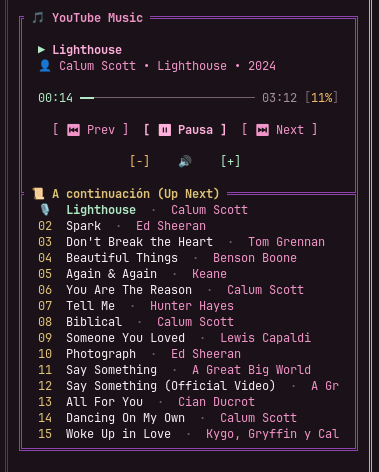
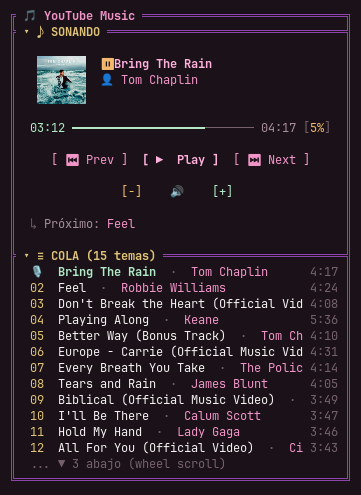
feat(player): fix volume persistence with main-world script and add repeat/shuffle controls

Changed region(s): [[0.0, 0.0, 1.0, 1.0], [0.6399, 0.1186, 0.7313, 0.1483]]

diff --git a/extension/content-script.js b/extension/content-script.js
@@ -31,6 +31,79 @@
     return document.querySelector("video");
   }
 
+  function extractRepeatMode() {
+    const playerBar = document.querySelector("ytmusic-player-bar");
+    const attrMode = playerBar?.getAttribute("repeat-mode") || playerBar?.getAttribute("repeat-mode_");
+    if (attrMode === "ONE" || attrMode === "ALL" || attrMode === "NONE") {
+      return attrMode;
+    }
+
+    const repeatBtn = document.querySelector(
+      ".repeat.ytmusic-player-bar, #right-controls .repeat, button[aria-label*='Repetir' i], button[aria-label*='Repeat' i]"
+    );
+    if (repeatBtn) {
+      const title = (repeatBtn.getAttribute("title") || repeatBtn.getAttribute("aria-label") || "").toLowerCase();
+      if (title.includes("uno") || title.includes("one") || title.includes("canción") || title.includes("track")) {
+        return "ONE";
+      }
+      if (title.includes("todo") || title.includes("all") || title.includes("lista") || title.includes("playlist")) {
+        return "ALL";
+      }
+      const pressed = repeatBtn.getAttribute("aria-pressed");
+      if (pressed === "true") return "ALL";
+    }
+
+    return "NONE";
+  }
+
+  function extractShuffleState() {
+    const playerBar = document.querySelector("ytmusic-player-bar");
+    if (playerBar && (playerBar.hasAttribute("shuffle-on") || playerBar.getAttribute("shuffle-on") !== null)) {
+      return true;
+    }
+
+    const shuffleBtn = document.querySelector(
+      ".shuffle.ytmusic-player-bar, #right-controls .shuffle, button[aria-label*='Aleatorio' i], button[aria-label*='Shuffle' i]"
+    );
+    if (shuffleBtn) {
+      const pressed = shuffleBtn.getAttribute("aria-pressed");
+      if (pressed === "true") return true;
+      if (shuffleBtn.classList.contains("active")) return true;
+    }
+
+    return false;
+  }
+
+  function sendToMainWorld(action, payload) {
+    try {
+      window.postMessage({ source: "PI_YT_CONTENT", action, payload }, "*");
+    } catch (_) {}
+  }
+
+  function applyVolume(volPercent) {
+    if (typeof volPercent !== "number" || isNaN(volPercent)) return;
+    const clamped = Math.max(0, Math.min(100, Math.round(volPercent)));
+    const volFraction = clamped / 100;
+
+    // 1. Elemento <video> nativo de HTML5
+    const video = getVideoElement();
+    if (video) {
+      video.volume = volFraction;
+    }
+
+    // 2. Manipular slider nativo en el DOM de YouTube Music (tp-yt-paper-slider)
+    const slider = document.querySelector("#volume-slider, ytmusic-player-bar #volume-slider");
+    if (slider) {
+      // @ts-ignore
+      slider.value = clamped;
+      slider.dispatchEvent(new Event("change", { bubbles: true }));
+      slider.dispatchEvent(new Event("input", { bubbles: true }));
+    }
+
+    // 3. Despachar a main-world.js para llamar a updateVolume() y movie_player.setVolume() sin restricciones de CSP
+    sendToMainWorld("SET_VOLUME", { value: clamped });
+  }
+
   function extractMetadata() {
     const video = getVideoElement();
     if (!video) {
@@ -68,13 +141,20 @@
       }
     }
 
+    // Extraer volumen sincronizado (priorizar slider si está presente)
+    const slider = document.querySelector("#volume-slider, ytmusic-player-bar #volume-slider");
+    // @ts-ignore
+    const currentVol = slider && typeof slider.value === "number" && !isNaN(slider.value) ? slider.value / 100 : (video.volume ?? 1.0);
+
     return {
       status: isPlaying ? "playing" : "paused",
       title,
       artist,
       currentTime,
       duration,
-      volume: video.volume ?? 1.0,
+      volume: currentVol,
+      repeatMode: extractRepeatMode(),
+      shuffle: extractShuffleState(),
       thumbnailUrl,
       queue: extractQueue(),
     };
@@ -256,12 +336,23 @@
         break;
 
       case "SET_VOLUME":
-        if (video && typeof packet.payload?.value === "number") {
-          const vol = Math.max(0, Math.min(1, packet.payload.value / 100));
-          video.volume = vol;
+        if (typeof packet.payload?.value === "number") {
+          applyVolume(packet.payload.value);
           sendFullState();
         }
         break;
+
+      case "REPEAT": {
+        sendToMainWorld("REPEAT");
+        setTimeout(sendFullState, 250);
+        break;
+      }
+
+      case "SHUFFLE": {
+        sendToMainWorld("SHUFFLE");
+        setTimeout(sendFullState, 250);
+        break;
+      }
 
       case "MUTE":
         if (video) {

diff --git a/extension/main-world.js b/extension/main-world.js
@@ -1,0 +1,108 @@
+// @ts-check
+/**
+ * Pi YouTube Music Bridge - Main World Script
+ * Corre en el contexto global de la página (MAIN world) de music.youtube.com.
+ * Tiene acceso directo al objeto DOM de Polymer (ytmusic-player-bar), al reproductor (#movie_player)
+ * y a los stores internos de Redux de YouTube Music, sin restricciones de Isolated World ni de CSP.
+ */
+
+(function () {
+  console.log("[Pi-YT MainWorld] Script cargado en el contexto de music.youtube.com");
+
+  function getPlayerBar() {
+    return document.querySelector("ytmusic-player-bar");
+  }
+
+  function getMoviePlayer() {
+    return document.querySelector("#movie_player") || document.getElementById("movie_player");
+  }
+
+  // Escuchar mensajes provenientes de content-script.js (Isolated World)
+  window.addEventListener("message", (event) => {
+    // Filtrar mensajes que no sean del puente
+    if (!event.data || event.data.source !== "PI_YT_CONTENT") return;
+
+    const { action, payload } = event.data;
+    const bar = getPlayerBar();
+    const mp = getMoviePlayer();
+
+    switch (action) {
+      case "SET_VOLUME": {
+        if (typeof payload?.value === "number") {
+          const vol = Math.max(0, Math.min(100, Math.round(payload.value)));
+
+          // 1. Llamar al método oficial de la barra de YouTube Music
+          // @ts-ignore
+          if (bar && typeof bar.updateVolume === "function") {
+            // @ts-ignore
+            bar.updateVolume(vol);
+          } else if (
+            bar &&
+            // @ts-ignore
+            bar.playerController &&
+            // @ts-ignore
+            bar.playerController.store &&
+            // @ts-ignore
+            bar.playerController.store.dispatch
+          ) {
+            // @ts-ignore
+            bar.playerController.store.dispatch({ type: "SET_VOLUME", payload: vol });
+          }
+
+          // 2. Llamar a la API de movie_player de YouTube
+          // @ts-ignore
+          if (mp && typeof mp.setVolume === "function") {
+            // @ts-ignore
+            mp.setVolume(vol);
+          }
+
+          // 3. Slider en el DOM
+          const slider = document.querySelector("#volume-slider");
+          if (slider) {
+            // @ts-ignore
+            slider.value = vol;
+          }
+
+          // 4. Elemento de video HTML5
+          const video = document.querySelector("video");
+          if (video) {
+            video.volume = vol / 100;
+          }
+        }
+        break;
+      }
+
+      case "REPEAT": {
+        // En YouTube Music onRepeatButtonClick cicla: NONE -> ALL -> ONE -> NONE
+        // @ts-ignore
+        if (bar && typeof bar.onRepeatButtonClick === "function") {
+          // @ts-ignore
+          bar.onRepeatButtonClick();
+        } else {
+          // Fallback a click en el botón del DOM
+          const btn = document.querySelector(".repeat.ytmusic-player-bar, #right-controls .repeat");
+          if (btn && typeof (/** @type {any} */ (btn)).click === "function") {
+            (/** @type {any} */ (btn)).click();
+          }
+        }
+        break;
+      }
+
+      case "SHUFFLE": {
+        // En YouTube Music queue.shuffle() mezcla o activa/desactiva aleatorio
+        // @ts-ignore
+        if (bar && bar.queue && typeof bar.queue.shuffle === "function") {
+          // @ts-ignore
+          bar.queue.shuffle();
+        } else {
+          // Fallback a click en el botón del DOM
+          const btn = document.querySelector(".shuffle.ytmusic-player-bar, #right-controls .shuffle");
+          if (btn && typeof (/** @type {any} */ (btn)).click === "function") {
+            (/** @type {any} */ (btn)).click();
+          }
+        }
+        break;
+      }
+    }
+  });
+})();

diff --git a/src/index.ts b/src/index.ts
@@ -32,8 +32,10 @@ function formatStatusOneLiner(state: YouTubePlayerState): string {
   const icon = state.status === "playing" ? "▶" : "⏸";
   const time = `${formatTime(state.currentTime)}/${formatTime(state.duration)}`;
   const vol = Math.round(state.volume * 100);
+  const repIcon = state.repeatMode === "ONE" ? " [🔂]" : state.repeatMode === "ALL" ? " [🔁]" : "";
+  const shufIcon = state.shuffle ? " [🔀]" : "";
 
-  return `${icon} ${state.artist} - ${state.title} (${time}) [Vol: ${vol}%]`;
+  return `${icon} ${state.artist} - ${state.title} (${time}) [Vol: ${vol}%]${repIcon}${shufIcon}`;
 }
 
 /**
@@ -133,6 +135,21 @@ export default function activate(pi: any): void {
             return reply("♡ Cargando tus canciones que te gustan...");
           }
 
+          case "repeat":
+          case "loop": {
+            service.toggleRepeat();
+            const rep = service.getState().repeatMode;
+            const repLabel = rep === "ONE" ? "🔂 Repitiendo canción actual" : rep === "ALL" ? "🔁 Repitiendo toda la lista" : "➡ Repetición desactivada";
+            return reply(repLabel);
+          }
+
+          case "shuffle":
+          case "random": {
+            service.toggleShuffle();
+            const shuf = service.getState().shuffle;
+            return reply(shuf ? "🔀 Modo aleatorio activado" : "➡ Modo aleatorio desactivado");
+          }
+
           case "vol":
           case "volume": {
             const rawVal = parts[1];
@@ -174,7 +191,7 @@ export default function activate(pi: any): void {
               return reply(`▶ Saltando al tema #${targetIndex} de la cola...`);
             }
 
-            return reply("Uso: /yt [play | pause | next | prev | vol <0-100> | queue | clear | remove <#n> | search <query> | likes]");
+            return reply("Uso: /yt [play | pause | next | prev | vol <0-100> | repeat | shuffle | queue | clear | remove <#n> | search <query> | likes]");
           }
         }
       },

diff --git a/src/player-service.ts b/src/player-service.ts
@@ -19,6 +19,8 @@ const INITIAL_STATE: YouTubePlayerState = {
   currentTime: 0,
   duration: 0,
   volume: 1.0,
+  repeatMode: "NONE",
+  shuffle: false,
   isLiked: false,
   thumbnailUrl: "",
   queue: [],
@@ -157,11 +159,29 @@ export class YouTubePlayerService implements IYouTubePlayerService {
   public setVolume(volume: number): void {
     // Clamping 0 a 100
     const clamped = Math.max(0, Math.min(100, Math.round(volume)));
+    this.state.volume = clamped / 100;
+    this.emitter.emit("stateChange", this.getState());
     this.dispatchCommand("SET_VOLUME", { value: clamped });
   }
 
   public toggleMute(): void {
     this.dispatchCommand("MUTE");
+  }
+
+  public toggleRepeat(): void {
+    // Rotar optimistamente estado local: NONE -> ALL -> ONE -> NONE
+    const current = this.state.repeatMode || "NONE";
+    const nextMode = current === "NONE" ? "ALL" : current === "ALL" ? "ONE" : "NONE";
+    this.state.repeatMode = nextMode;
+    this.emitter.emit("stateChange", this.getState());
+    this.dispatchCommand("REPEAT");
+  }
+
+  public toggleShuffle(): void {
+    // Alternar optimistamente estado local
+    this.state.shuffle = !this.state.shuffle;
+    this.emitter.emit("stateChange", this.getState());
+    this.dispatchCommand("SHUFFLE");
   }
 
   public playQueueIndex(index: number): void {

diff --git a/src/types.ts b/src/types.ts
@@ -16,6 +16,11 @@ export interface QueueTrack {
 }
 
 /**
+ * Modos de repetición soportados por YouTube Music
+ */
+export type RepeatMode = "NONE" | "ALL" | "ONE";
+
+/**
  * Estado completo del reproductor de YouTube Music
  */
 export interface YouTubePlayerState {
@@ -26,6 +31,8 @@ export interface YouTubePlayerState {
   currentTime: number; // Segundos actuales
   duration: number; // Duración total en segundos
   volume: number; // 0.0 a 1.0 (o 0 a 100 según porcentaje)
+  repeatMode?: RepeatMode;
+  shuffle?: boolean;
   isLiked?: boolean;
   thumbnailUrl?: string;
   thumbnailPath?: string; // Ruta local al archivo de portada en disco (/tmp) para renderizado en TUI/Kitty
@@ -51,7 +58,9 @@ export type PlayerCommandAction =
   | "CLEAR_QUEUE"
   | "REMOVE_INDEX"
   | "SEARCH"
-  | "PLAY_LIKES";
+  | "PLAY_LIKES"
+  | "REPEAT"
+  | "SHUFFLE";
 
 /**
  * Paquete de comando enviado de Pi hacia el navegador
@@ -104,6 +113,8 @@ export interface IYouTubePlayerService {
   previous(): void;
   setVolume(volume: number): void;
   toggleMute(): void;
+  toggleRepeat(): void;
+  toggleShuffle(): void;
   playQueueIndex(index: number): void;
   clearQueue(): void;
   removeQueueIndex(index: number): void;

diff --git a/src/daemon.ts b/src/daemon.ts
@@ -13,6 +13,8 @@ const INITIAL_STATE: YouTubePlayerState = {
   currentTime: 0,
   duration: 0,
   volume: 1.0,
+  repeatMode: "NONE",
+  shuffle: false,
   isLiked: false,
   thumbnailUrl: "",
   queue: [],
